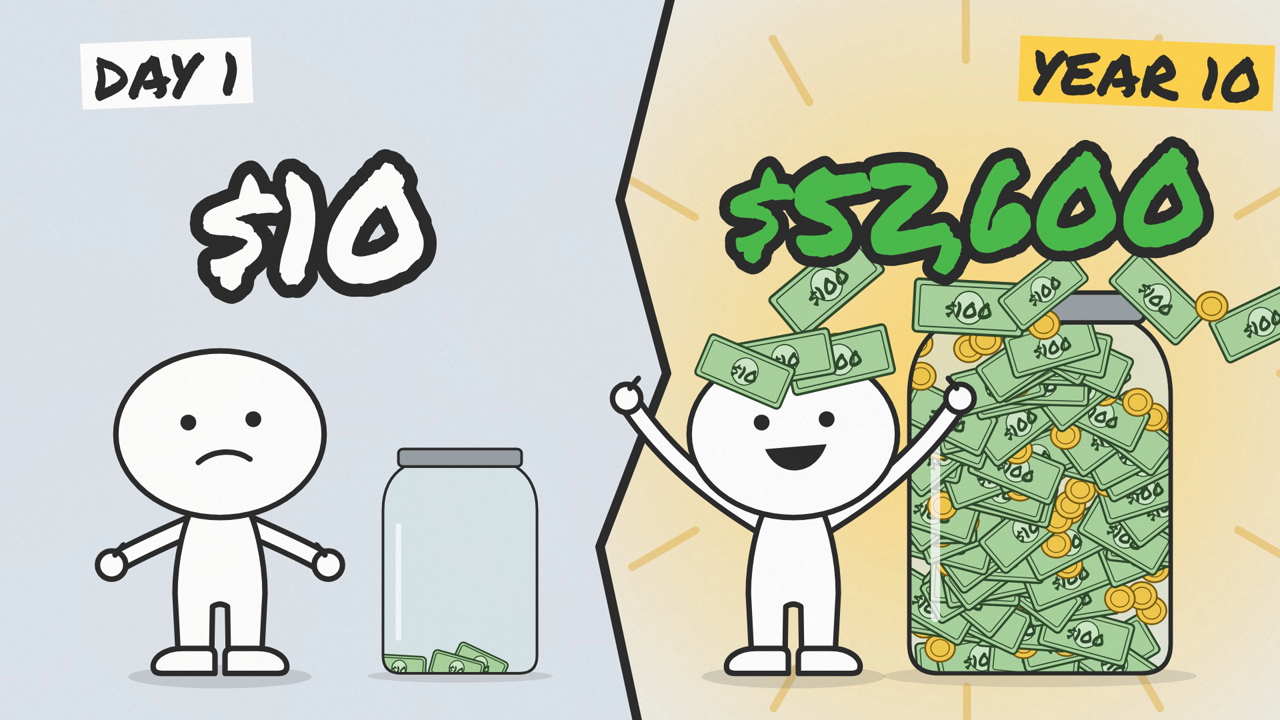
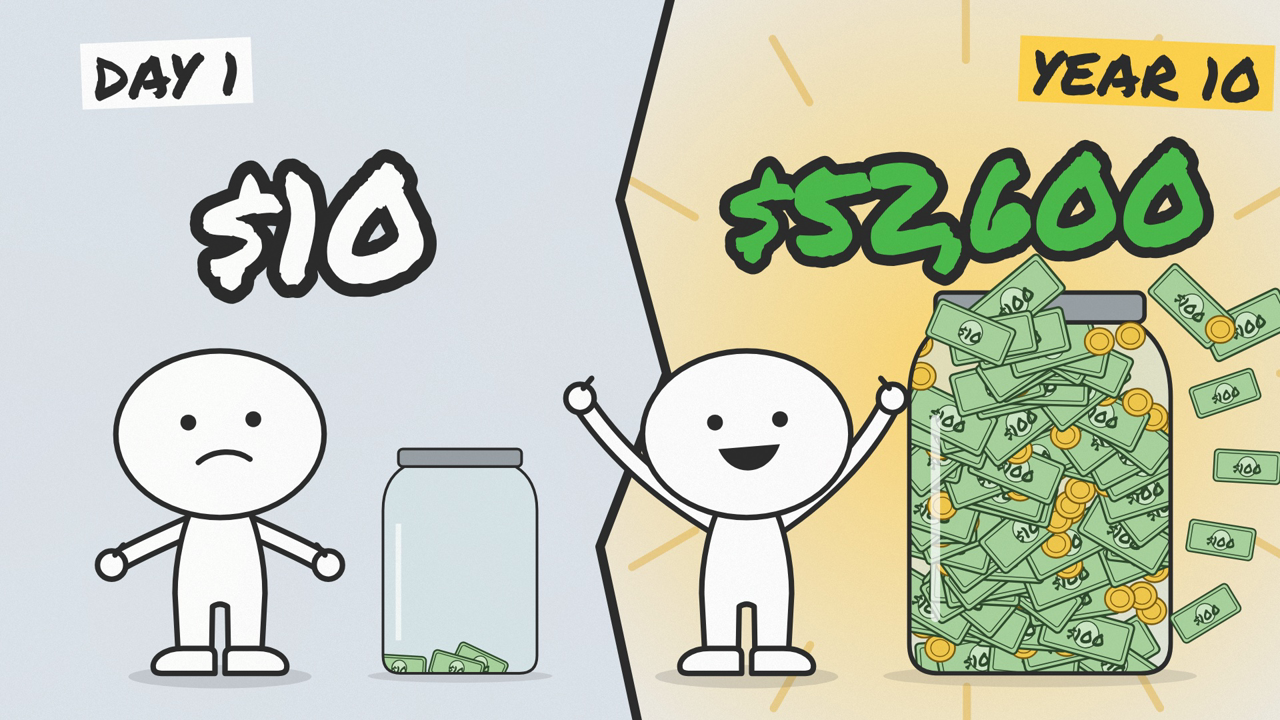
Thumbnail v2: keep money and numbers off the hero
Claude-Session: https://claude.ai/code/session_01CCRcMHemQpkaWMfydJeSWZ

Changed region(s): [[0.4375, 0.3361, 1.0, 0.9778], [0.9062, 0.7028, 1.0, 0.8861], [0.9375, 0.6111, 1.0, 0.6722]]

diff --git a/anim/scenes/thumb_money01_v2.js b/anim/scenes/thumb_money01_v2.js
@@ -16,8 +16,10 @@ function render(t) {
   jar(690, 1010, 330, 0.03, 4);
   // right: year 10 with money rain
   jar(1560, 1010, 560, 1, 21);
-  heroFront(1190, 1010, 1.25, { face: 'grin', armL: [-200, -330], armR: [200, -330] });
-  const r = rng(5); for (let k = 0; k < 12; k++) { const x = 1050 + r() * 860, y = 420 + r() * 140; if (k % 3) bill(x, y, 120 + r() * 50, (r() - 0.5) * 1.6, r() < 0.5 ? '$100' : '$10'); else coin(x, y, 24); }
+  heroFront(1120, 1010, 1.25, { face: 'grin', armL: [-200, -330], armR: [175, -330] });
+  // money falls only into the jar and to its right, never over the hero or the numbers
+  const r = rng(5); for (let k = 0; k < 10; k++) { const x = 1420 + r() * 460, y = 480 + r() * 50 - (k % 3) * 15; if (k % 3) bill(x, y, 110 + r() * 40, (r() - 0.5) * 1.6, r() < 0.5 ? '$100' : '$10'); else coin(x, y, 22); }
+  for (let k = 0; k < 4; k++) bill(1800 + r() * 80, 590 + k * 110, 100, (r() - 0.5) * 1.6, '$100');
   ctx.setTransform(1, 0, 0, 1, 0, 0);
   // labels
   at(250, 110, 1, -0.04, () => marker('DAY 1', 0, 0, 90, { hl: '#fff' }));
